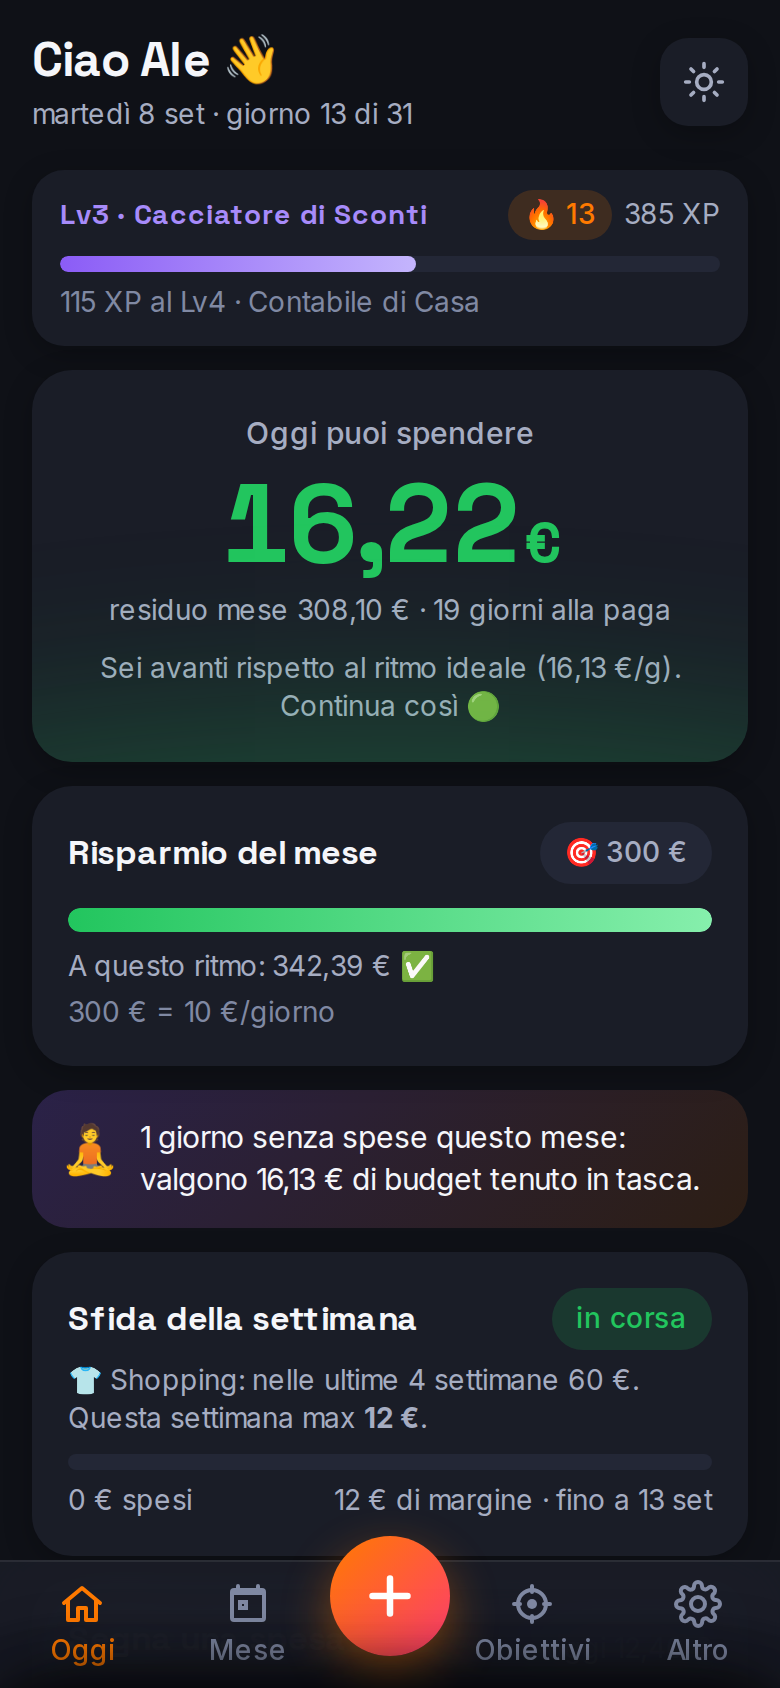
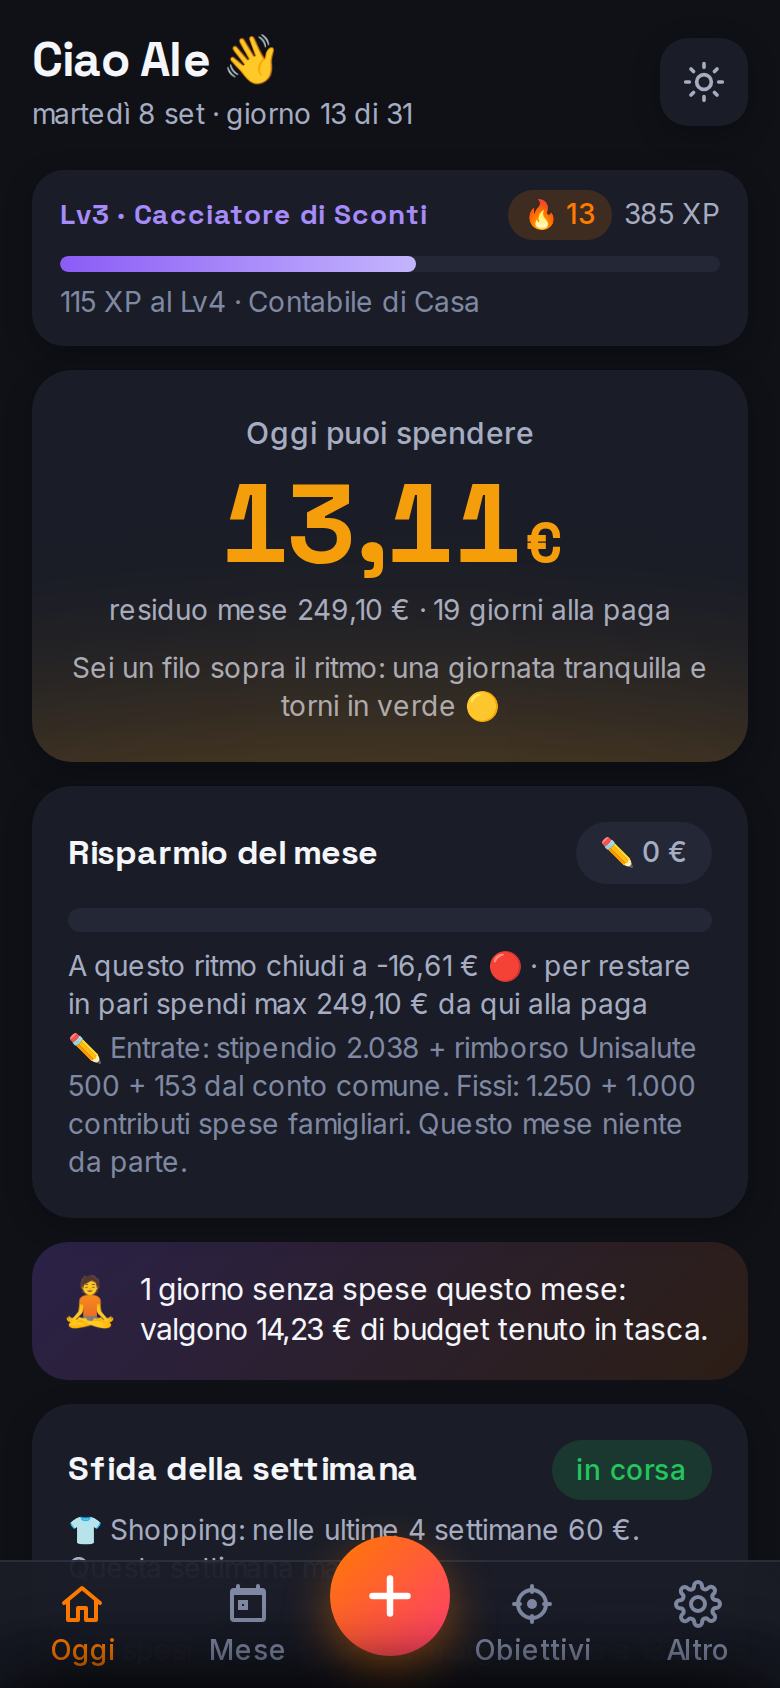
feat(soldi): mese personalizzato + seed v2 con movimenti bancari
Nuovo override per singolo mese (entrate, fissi, obiettivo, nota) dal
pulsante 'Questo mese è diverso' nella schermata Mese; salvato in
monthOverrides, incluso nel merge del seed. Home e Mese gestiscono
obiettivo 0 ('basta non sforare'). Seed v2: 10 movimenti dall'estratto
conto (28 ago → 8 set), ricorrente palestra, mese 27 ago → 26 set con
entrate 2.691, fissi 2.250, obiettivo 0. SW v6.

Claude-Session: https://claude.ai/code/session_01E4buKwPQgm13Yjm7FVUMWz

Changed region(s): [[0.0308, 0.4929, 0.9538, 0.9242], [0.0308, 0.2773, 0.9538, 0.4621]]

diff --git a/soldi/index.html b/soldi/index.html
@@ -566,7 +566,7 @@ function defaultState(){
       split: {}, onboarded: false, updatedAt: now
     },
     categories: DEFAULT_CATS.map((c,i) => ({...c, order:i, uses:0, updatedAt: now})),
-    expenses: [], goals: [], incomes: [], months: [], recurring: [],
+    expenses: [], goals: [], incomes: [], months: [], recurring: [], monthOverrides: {},
     gami: { xp:0, badges:[], streak:0, streakBest:0, streakLast:null, freezeMonth:null, noSpend:[], xpLog:{}, weekly:{}, insightIdx:0, lastSeen:null, weeksClosed:[], seenLevel:1 },
     meta: { created: now, lastOpen: null, currentMonth: null, version: APP_VERSION }
   };
@@ -588,6 +588,7 @@ function normalize(st){
   st.settings.fixedItems = st.settings.fixedItems || [];
   st.settings.quickAmounts = (st.settings.quickAmounts || d.settings.quickAmounts).slice(0,5);
   for (const k of ['categories','expenses','goals','incomes','months','recurring']) st[k] = Array.isArray(st[k]) ? st[k] : [];
+  st.monthOverrides = (st.monthOverrides && typeof st.monthOverrides === 'object') ? st.monthOverrides : {};
   st.gami = Object.assign(d.gami, st.gami || {});
   st.meta = Object.assign(d.meta, st.meta || {});
   if (!st.categories.length) st.categories = d.categories;
@@ -610,6 +611,7 @@ function mergeSeed(seed){
   if (seed.settings && (seed.settings.updatedAt || 0) > (S.settings.updatedAt || 0)) S.settings = Object.assign({}, S.settings, seed.settings);
   for (const k of ['categories','expenses','goals','incomes','months','recurring']) if (Array.isArray(seed[k])) S[k] = mergeById(S[k], seed[k]);
   if (seed.gami && (seed.gami.updatedAt || 0) > (S.gami.updatedAt || 0)) S.gami = Object.assign({}, S.gami, seed.gami);
+  if (seed.monthOverrides) { S.monthOverrides = S.monthOverrides || {}; for (const k in seed.monthOverrides) { const inc = seed.monthOverrides[k], cur = S.monthOverrides[k]; if (!cur || (inc.updatedAt || 0) > (cur.updatedAt || 0)) S.monthOverrides[k] = inc; } }
   S.seedVersion = sv;
   normalize(S); save();
   return true;
@@ -632,12 +634,18 @@ const sum = list => list.reduce((a,e) => a + (+e.amount || 0), 0);
 const byCatTotals = list => { const m = {}; for (const e of list) m[e.catId] = (m[e.catId]||0) + (+e.amount||0); return m; };
 
 /* ---------- calcoli del mese ---------- */
-function budgetVar(){ return S.settings.salary - S.settings.fixed - S.settings.savingsGoal; }
+/* parametri del mese: standard dalle impostazioni, oppure "questo mese è diverso" (override per singolo mese) */
+function monthParams(fm){
+  const o = (S.monthOverrides || {})[fm ? fm.id : finMonth(today()).id];
+  const s = S.settings;
+  return { salary: o && isFinite(o.salary) ? +o.salary : s.salary, fixed: o && isFinite(o.fixed) ? +o.fixed : s.fixed, savingsGoal: o && isFinite(o.savingsGoal) ? +o.savingsGoal : s.savingsGoal, note: o ? (o.note || '') : '', custom: !!o };
+}
+function budgetVar(fm){ const p = monthParams(fm); return p.salary - p.fixed - p.savingsGoal; }
 function monthStats(fm, asOf){
   asOf = asOf || today();
   const list = inMonth(fm);
   const spent = sum(list);
-  const B = budgetVar();
+  const P = monthParams(fm); const B = P.salary - P.fixed - P.savingsGoal;
   const residual = B - spent;
   const inside = asOf >= fm.start && asOf <= fm.end;
   const dayIdx = inside ? daysBetween(fm.start, asOf) : (asOf < fm.start ? -1 : fm.days); // 0-based
@@ -651,10 +659,10 @@ function monthStats(fm, asOf){
   const color = ratio >= 1 ? 'green' : ratio >= .8 ? 'amber' : 'red';
   const avgDaily = daysElapsed > 0 ? spent / daysElapsed : 0;
   const projectedSpend = spent + avgDaily * Math.max(0, daysLeft - 1);
-  const saved = S.settings.salary - S.settings.fixed - spent; // risparmio se il mese finisse ora
-  const projectedSaving = S.settings.salary - S.settings.fixed - projectedSpend;
-  const toGoal = S.settings.savingsGoal - saved;
-  return { fm, list, spent, B, residual, dayIdx, daysElapsed, daysLeft, perDayIdeal, safeToday, spentToday, spentBeforeToday, ratio, color, avgDaily, projectedSpend, saved, projectedSaving, toGoal, inside };
+  const saved = P.salary - P.fixed - spent; // risparmio se il mese finisse ora
+  const projectedSaving = P.salary - P.fixed - projectedSpend;
+  const toGoal = P.savingsGoal - saved;
+  return { fm, list, spent, B, params: P, goal: P.savingsGoal, residual, dayIdx, daysElapsed, daysLeft, perDayIdeal, safeToday, spentToday, spentBeforeToday, ratio, color, avgDaily, projectedSpend, saved, projectedSaving, toGoal, inside };
 }
 function sameDayPrevMonth(fm, asOf){
   const p = prevFinMonth(fm);
@@ -727,7 +735,7 @@ function closeMonth(fm){
   let alloc = {};
   if (deposit > 0) { const inc = addIncome('monthly', deposit, fm.end, splitDefault(), 'Risparmio ' + fm.name); alloc = inc.alloc; }
   const prev = S.months.find(m => m.id === prevFinMonth(fm).id);
-  const rec = { id: fm.id, start: fm.start, end: fm.end, name: fm.name, salary: S.settings.salary, fixed: S.settings.fixed, goal: S.settings.savingsGoal,
+  const rec = { id: fm.id, start: fm.start, end: fm.end, name: fm.name, salary: st.params.salary, fixed: st.params.fixed, goal: st.params.savingsGoal, custom: st.params.custom, note: st.params.note,
     budget: st.B, spent: round2(st.spent), saved, deposit, alloc, byCat: totals, count: st.list.length, days: fm.days, closedAt: Date.now(), updatedAt: Date.now(),
     prevSpent: prev ? prev.spent : null, prevByCat: prev ? prev.byCat : null, badges: [] };
   S.months.push(rec);
@@ -877,20 +885,20 @@ function renderHome(){
   $('#sts-under').textContent = (st.residual >= 0 ? `residuo mese ${eur(st.residual)}` : `oltre budget di ${eur(-st.residual)}`) + ' · ' + days;
   $('#sts-cheer').textContent = cheerLine(st);
   // risparmio
-  const goal = S.settings.savingsGoal;
+  const goal = st.goal;
   const proj = st.projectedSaving;
-  const cur = clamp(st.saved, 0, Infinity);
-  $('#sav-pill').textContent = `🎯 ${fmt(goal, 0)} €`;
-  const fill = clamp(proj / goal, 0, 1) * 100;
+  $('#sav-pill').textContent = st.params.custom ? `✏ ${fmt(goal, 0)} €` : `🎯 ${fmt(goal, 0)} €`;
+  const fill = goal > 0 ? clamp(proj / goal, 0, 1) * 100 : (proj >= 0 ? 100 : 0);
   const f = $('#sav-fill'); f.style.width = fill + '%';
-  f.style.background = proj >= goal ? '' : (proj >= goal * .8 ? 'linear-gradient(90deg,#F59E0B,#FCD34D)' : 'linear-gradient(90deg,#EF4444,#F87171)');
+  f.style.background = proj >= goal ? '' : (proj >= goal * .8 && goal > 0 ? 'linear-gradient(90deg,#F59E0B,#FCD34D)' : 'linear-gradient(90deg,#EF4444,#F87171)');
   let projTxt;
-  if (st.dayIdx === 0 && st.spent === 0) projTxt = `Se tieni il ritmo di ${eur(st.perDayIdeal, 2)}/g chiudi a ${eur(goal)} ✅`;
+  if (goal <= 0) projTxt = proj >= 0 ? `Obiettivo 0 questo mese: a questo ritmo chiudi a ${eur(proj)}, in pari ✅` : `A questo ritmo chiudi a ${eur(proj)} 🔴 · per restare in pari spendi max ${eur(Math.max(0, st.params.salary - st.params.fixed - st.spent))} da qui alla paga`;
+  else if (st.dayIdx === 0 && st.spent === 0) projTxt = `Se tieni il ritmo di ${eur(st.perDayIdeal, 2)}/g chiudi a ${eur(goal)} ✅`;
   else if (proj >= goal) projTxt = `A questo ritmo: ${eur(proj)} ✅`;
   else if (proj >= 0) projTxt = `A questo ritmo: ${eur(proj)} ⚠ (mancano ${eur(goal - proj)})`;
-  else projTxt = `A questo ritmo: ${eur(proj)} 🔴 · per salvare qualcosa spendi max ${eur(Math.max(0, S.settings.salary - S.settings.fixed - st.spent))} da qui alla paga`;
+  else projTxt = `A questo ritmo: ${eur(proj)} 🔴 · per salvare qualcosa spendi max ${eur(Math.max(0, st.params.salary - st.params.fixed - st.spent))} da qui alla paga`;
   $('#sav-proj').textContent = projTxt;
-  $('#sav-reframe').textContent = `${fmt(goal,0)} € = ${fmt(goal / fm.days, 0)} €/giorno`;
+  $('#sav-reframe').textContent = goal > 0 ? `${fmt(goal,0)} € = ${fmt(goal / fm.days, 0)} €/giorno` : (st.params.note ? `✏ ${st.params.note}` : 'Questo mese niente da mettere via: basta non sforare.');
   $('#today-spent').textContent = st.spentToday > 0 ? `oggi ${eur(st.spentToday)}` : 'oggi niente, per ora';
   // categorie preferite (6 più usate)
   const totals = byCatTotals(st.list);
@@ -1029,20 +1037,22 @@ function renderMonth(){
   $('#month-title').textContent = fm.label;
   $('#month-next').style.visibility = fm.end < t ? '' : 'hidden';
   $('#month-sub').textContent = isCur ? `${fm.name} · ${st.daysLeft} giorni alla paga` : (arch ? `${fm.name} · archiviato` : fm.name);
-  const salary = arch ? arch.salary : S.settings.salary, fixed = arch ? arch.fixed : S.settings.fixed, goal = arch ? arch.goal : S.settings.savingsGoal;
+  const salary = arch ? arch.salary : st.params.salary, fixed = arch ? arch.fixed : st.params.fixed, goal = arch ? arch.goal : st.params.savingsGoal;
+  const custom = arch ? arch.custom : st.params.custom; const note = arch ? arch.note : st.params.note;
   const saved = salary - fixed - st.spent; const delta = saved - goal;
   const prev = sameDayPrevMonth(fm, asOf);
   const cmp = prev.hasData ? (st.spent <= prev.spent ? `<span class="pill green">−${eur(prev.spent - st.spent)} vs mese scorso allo stesso giorno</span>` : `<span class="pill amber">+${eur(st.spent - prev.spent)} vs mese scorso allo stesso giorno</span>`) : `<span class="pill">primo mese: nessun confronto</span>`;
-  $('#month-summary').innerHTML = `<div class="card"><h2>Riepilogo</h2><div class="kv">
-    <span class="k">Stipendio</span><span class="v num">${eur(salary)}</span>
+  $('#month-summary').innerHTML = `<div class="card"><div class="row between"><h2 style="margin:0">Riepilogo</h2>${custom ? '<span class="pill amber">✏ mese personalizzato</span>' : ''}</div>${note ? `<div class="small muted" style="margin:4px 0 8px">${esc(note)}</div>` : '<div style="height:10px"></div>'}<div class="kv">
+    <span class="k">${custom ? 'Entrate del mese' : 'Stipendio'}</span><span class="v num">${eur(salary)}</span>
     <span class="k">Casa &amp; fissi</span><span class="v num">− ${eur(fixed)}</span>
     <span class="k">Spese variabili (${st.list.length})</span><span class="v num">− ${eur(st.spent)}</span>
     <span class="k tot">Risparmio ${isCur ? 'a oggi' : 'del mese'}</span><span class="v num tot" style="color:${saved>=goal?'var(--green)':saved>=0?'var(--amber)':'var(--red)'}">${eur(saved)}</span>
     <span class="k">Obiettivo</span><span class="v num">${eur(goal)}</span>
     <span class="k">Delta</span><span class="v num" style="color:${delta>=0?'var(--green)':'var(--red)'}">${delta>=0?'+':''}${eur(delta)}</span>
     ${isCur ? `<span class="k">Budget variabile residuo</span><span class="v num">${eur(st.residual)} · ${st.daysLeft} gg</span>` : ''}
-  </div><div class="row between" style="margin-top:10px;flex-wrap:wrap">${cmp}${arch ? `<button class="btn ghost sm" id="btn-pagella">📋 Pagella</button>` : ''}</div></div>`;
+  </div><div class="row between" style="margin-top:10px;flex-wrap:wrap">${cmp}${arch ? `<button class="btn ghost sm" id="btn-pagella">📋 Pagella</button>` : `<button class="btn ghost sm" id="btn-override">✏ Questo mese è diverso</button>`}</div></div>`;
   const bp = $('#btn-pagella'); if (bp) bp.addEventListener('click', () => showPagella(fm.id));
+  const bo = $('#btn-override'); if (bo) bo.addEventListener('click', () => editOverride(fm));
   const totals = byCatTotals(st.list); const entries = Object.entries(totals).sort((a,b) => b[1]-a[1]);
   $('#month-donut').innerHTML = `<div class="card"><h2>Per categoria</h2><div class="donutwrap">${donutSVG(entries, st.spent)}<div class="legend grow" style="flex-direction:column;flex-wrap:nowrap;gap:6px">${entries.slice(0,6).map(([id,v]) => `<div class="it"><span class="dot" style="background:${cat(id).color}"></span><span class="nm">${cat(id).emoji} ${esc(cat(id).name)}</span><b class="num">${eur(v)}</b></div>`).join('') || '<div class="it">Nessuna spesa ancora</div>'}</div></div></div>`;
   $('#month-bars').innerHTML = `<div class="card"><h2>Giorno per giorno</h2>${barsSVG(fm, st.list, st.perDayIdeal, asOf)}<div class="row between small muted" style="margin-top:6px"><span>media ${eur(st.avgDaily, 2)}/g</span><span>ideale ${eur(st.perDayIdeal, 2)}/g</span></div></div>`;
@@ -1159,7 +1169,7 @@ $('#btn-income').addEventListener('click', openIncome);
    IMPOSTAZIONI
    ===================================================================== */
 function renderSettings(){
-  const s = S.settings; const B = budgetVar(); const fm = finMonth(today());
+  const s = S.settings; const fm = finMonth(today()); const B = s.salary - s.fixed - s.savingsGoal;
   const fixedRows = s.fixedItems.map((f,i) => `<div class="setrow"><div><div class="l">${esc(f.name)}</div></div><div class="row"><span class="num">${eur(f.amount)}</span><button class="link" data-fx="${i}" aria-label="Modifica ${esc(f.name)}">${svgUse('i-edit')}</button></div></div>`).join('');
   $('#settings-body').innerHTML = `
   <div class="card"><h2>Budget</h2>
@@ -1215,6 +1225,20 @@ function renderSettings(){
   $('#btn-reset').addEventListener('click', resetAll);
   $('#btn-onb').addEventListener('click', () => showOnboarding(true));
   const rd = $('#btn-realdate'); if (rd) rd.addEventListener('click', () => { sessionStorage.removeItem('soldi:today'); location.href = location.pathname; });
+}
+function editOverride(fm){
+  const p = monthParams(fm); const s = S.settings;
+  modalOpen(`<h2>Questo mese è diverso</h2><p class="muted small" style="margin:0 0 6px">Vale solo per ${esc(fm.label)}. Le impostazioni standard restano com'erano.</p>
+    <div class="field"><label for="ov-salary">Entrate del mese</label><div class="unit"><input id="ov-salary" type="number" inputmode="decimal" value="${p.salary}"><span>€</span></div></div>
+    <div class="field"><label for="ov-fixed">Fissi del mese</label><div class="unit"><input id="ov-fixed" type="number" inputmode="decimal" value="${p.fixed}"><span>€</span></div></div>
+    <div class="field"><label for="ov-goal">Obiettivo risparmio del mese (0 = basta non sforare)</label><div class="unit"><input id="ov-goal" type="number" inputmode="decimal" min="0" value="${p.savingsGoal}"><span>€</span></div></div>
+    <div class="field"><label for="ov-note">Nota (perché è diverso)</label><input id="ov-note" maxlength="80" value="${esc(p.note)}" placeholder="Es. rimborso Unisalute, spese extra"></div>
+    <div class="small muted" id="ov-calc"></div>
+    <div class="btnrow">${p.custom ? '<button class="btn ghost" id="ov-reset">Torna allo standard</button>' : ''}<button class="btn primary" id="ov-ok">Salva</button></div>`);
+  const calc = () => { const sal = +$('#ov-salary').value || 0, fx = +$('#ov-fixed').value || 0, g = +$('#ov-goal').value || 0; const b = sal - fx - g; $('#ov-calc').innerHTML = `Budget variabile del mese: <b class="num">${eur(b)}</b> ≈ ${eur(b / fm.days, 2)}/giorno (standard: ${eur(s.salary - s.fixed - s.savingsGoal)}).`; };
+  calc(); $$('#ov-salary,#ov-fixed,#ov-goal').forEach(i => i.addEventListener('input', calc));
+  $('#ov-ok').onclick = () => { S.monthOverrides[fm.id] = { salary: +$('#ov-salary').value || 0, fixed: +$('#ov-fixed').value || 0, savingsGoal: Math.max(0, +$('#ov-goal').value || 0), note: $('#ov-note').value.trim(), updatedAt: Date.now() }; save(); modalClose(); renderAll(); toast('Mese personalizzato ✏'); };
+  const r = $('#ov-reset'); if (r) r.onclick = () => { delete S.monthOverrides[fm.id]; save(); modalClose(); renderAll(); toast('Tornato ai valori standard'); };
 }
 function moveCat(c, dir){ const list = cats(); const i = list.indexOf(c); const j = i + dir; if (j < 0 || j >= list.length) return; const o = list[j]; [c.order, o.order] = [o.order, c.order]; c.updatedAt = o.updatedAt = Date.now(); save(); renderSettings(); }
 function editFixed(i){
@@ -1395,7 +1419,7 @@ function checkWeeks(){ // settimane (lun-dom) chiuse sotto budget → +50
   G().weeksClosed = G().weeksClosed || [];
   while (addDays(w, 6) < t && w < thisWeek) {
     if (!G().weeksClosed.includes(w)) {
-      const end = addDays(w, 6); const fm = finMonth(end); const per = budgetVar() / fm.days;
+      const end = addDays(w, 6); const fm = finMonth(end); const per = budgetVar(fm) / fm.days;
       const spent = sum(expenses().filter(e => e.date >= w && e.date <= end));
       G().weeksClosed.push(w);
       if (spent <= per * 7) { addXP(50); toast(`Settimana ${fmtShort(w)}–${fmtShort(end)} sotto budget: +50 XP 🟢`); }
@@ -1405,7 +1429,7 @@ function checkWeeks(){ // settimane (lun-dom) chiuse sotto budget → +50
     w = addDays(w, 7);
   }
   // 7 giorni consecutivi sotto budget/giorno
-  const fm = finMonth(t); const per = budgetVar() / fm.days; const byDay = {}; for (const e of expenses()) byDay[e.date] = (byDay[e.date]||0) + e.amount;
+  const fm = finMonth(t); const per = budgetVar(fm) / fm.days; const byDay = {}; for (const e of expenses()) byDay[e.date] = (byDay[e.date]||0) + e.amount;
   let run = 0; for (let d = addDays(t, -1); d >= firstUse() && d >= addDays(t, -60); d = addDays(d, -1)) { if ((byDay[d]||0) <= per) { run++; if (run >= 7) { unlockBadge('week7'); break; } } else run = 0; }
 }
 function weeklyChallenge(){
@@ -1452,7 +1476,7 @@ EV.on('monthClosed', rec => {
 
 /* ---- insight concreti (1 alla volta, ruotano) ---- */
 function insights(st){
-  const out = []; const goal = S.settings.savingsGoal; const fm = st.fm;
+  const out = []; const goal = st.goal; const fm = st.fm;
   const totals = byCatTotals(st.list); const top = Object.entries(totals).sort((a,b) => b[1]-a[1])[0];
   if (top && st.daysElapsed >= 3) {
     const c = cat(top[0]); const projC = top[1] / st.daysElapsed * fm.days; const target = Math.max(10, Math.round(projC * 0.7 / 10) * 10);

diff --git a/soldi/sw.js b/soldi/sw.js
@@ -1,7 +1,7 @@
 /* Soldi · service worker — app shell in cache, funziona offline.
    Alza VERSION a ogni release: il nuovo SW si installa in silenzio e alla
    prossima apertura la cache vecchia sparisce. */
-const VERSION = 'soldi-v5';
+const VERSION = 'soldi-v6';
 const SHELL = ['./', 'index.html', 'manifest.json', 'seed.json', 'icons/icon-192.png', 'icons/icon-512.png', 'icons/icon-maskable-512.png', 'icons/apple-touch-icon.png'];
 
 self.addEventListener('install', e => {

diff --git a/soldi/PROGRESS.md b/soldi/PROGRESS.md
@@ -91,5 +91,10 @@ Bug trovati e corretti in QA: registrazione SW che dipendeva dall'evento
 load (poteva non partire), streak con "gelo" conteggiato ai bordi, modali di
 celebrazione che si sovrascrivevano (ora in coda).
 
+## Post-consegna (8 set)
+- [x] Fix scroll Android: tolti overflow-x:hidden/overscroll-behavior su html/body (SW v5)
+- [x] "Questo mese è diverso": override per singolo mese di entrate/fissi/obiettivo (bottone nel Mese, `monthOverrides` nel seed, merge per updatedAt)
+- [x] Seed v2: 10 movimenti bancari 28 ago → 8 set + ricorrente McFIT + mese 27 ago→26 set con obiettivo 0 (SW v6)
+
 ## Fase 5 — Consegna
 - [x] Ultimo commit, deploy verde, messaggio finale
